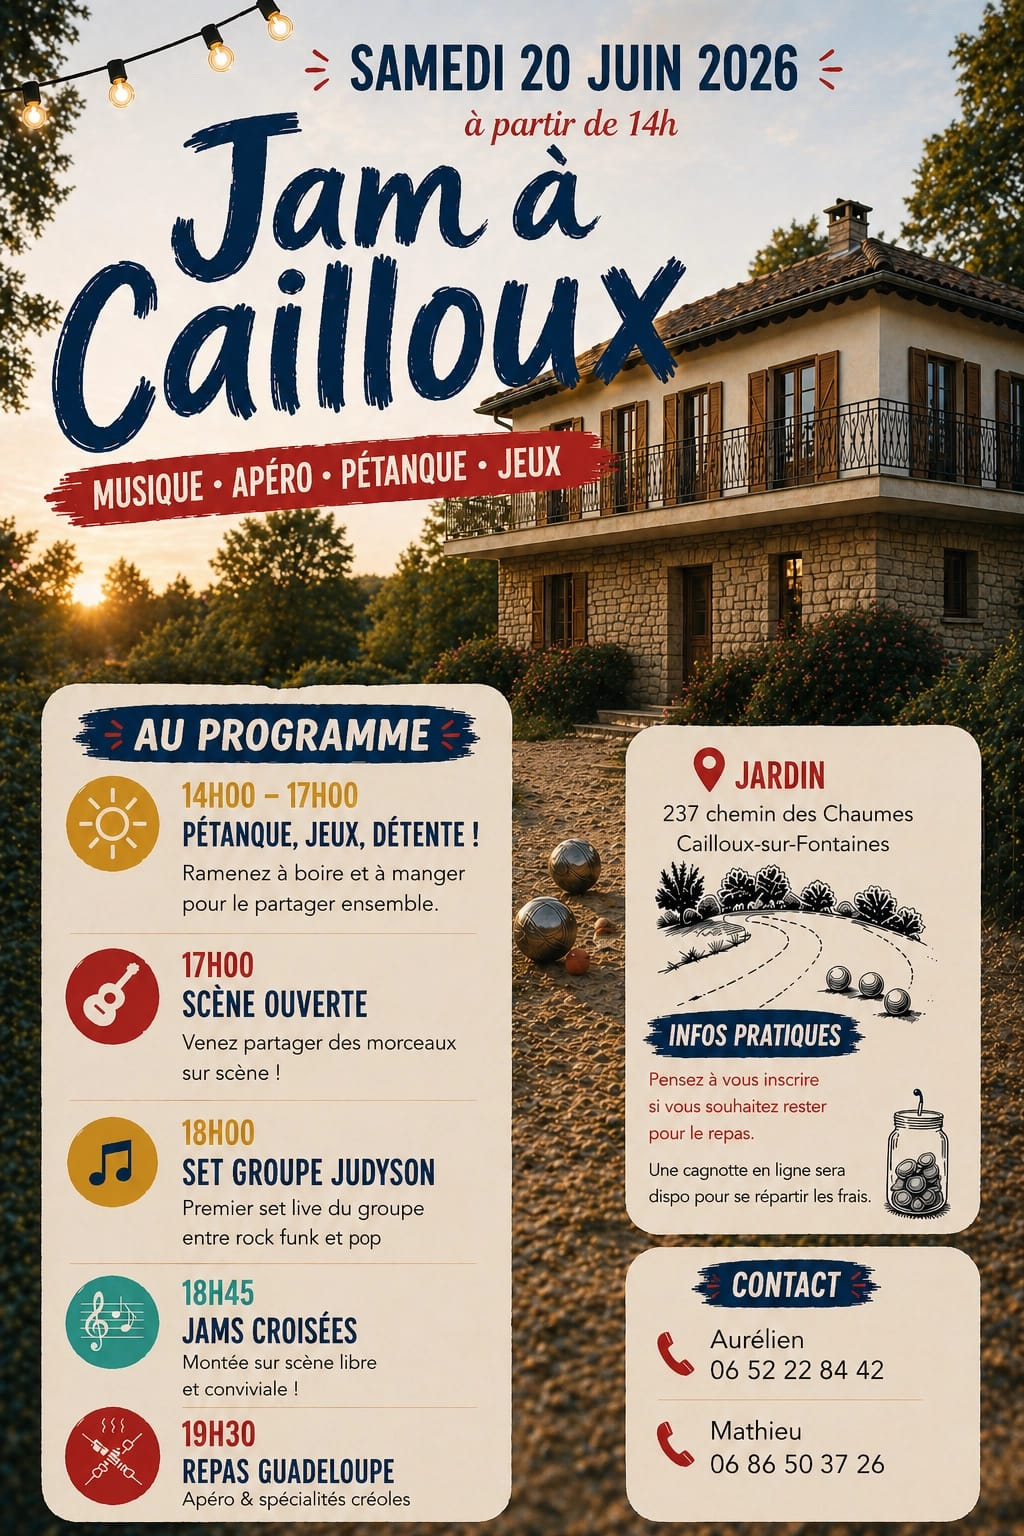
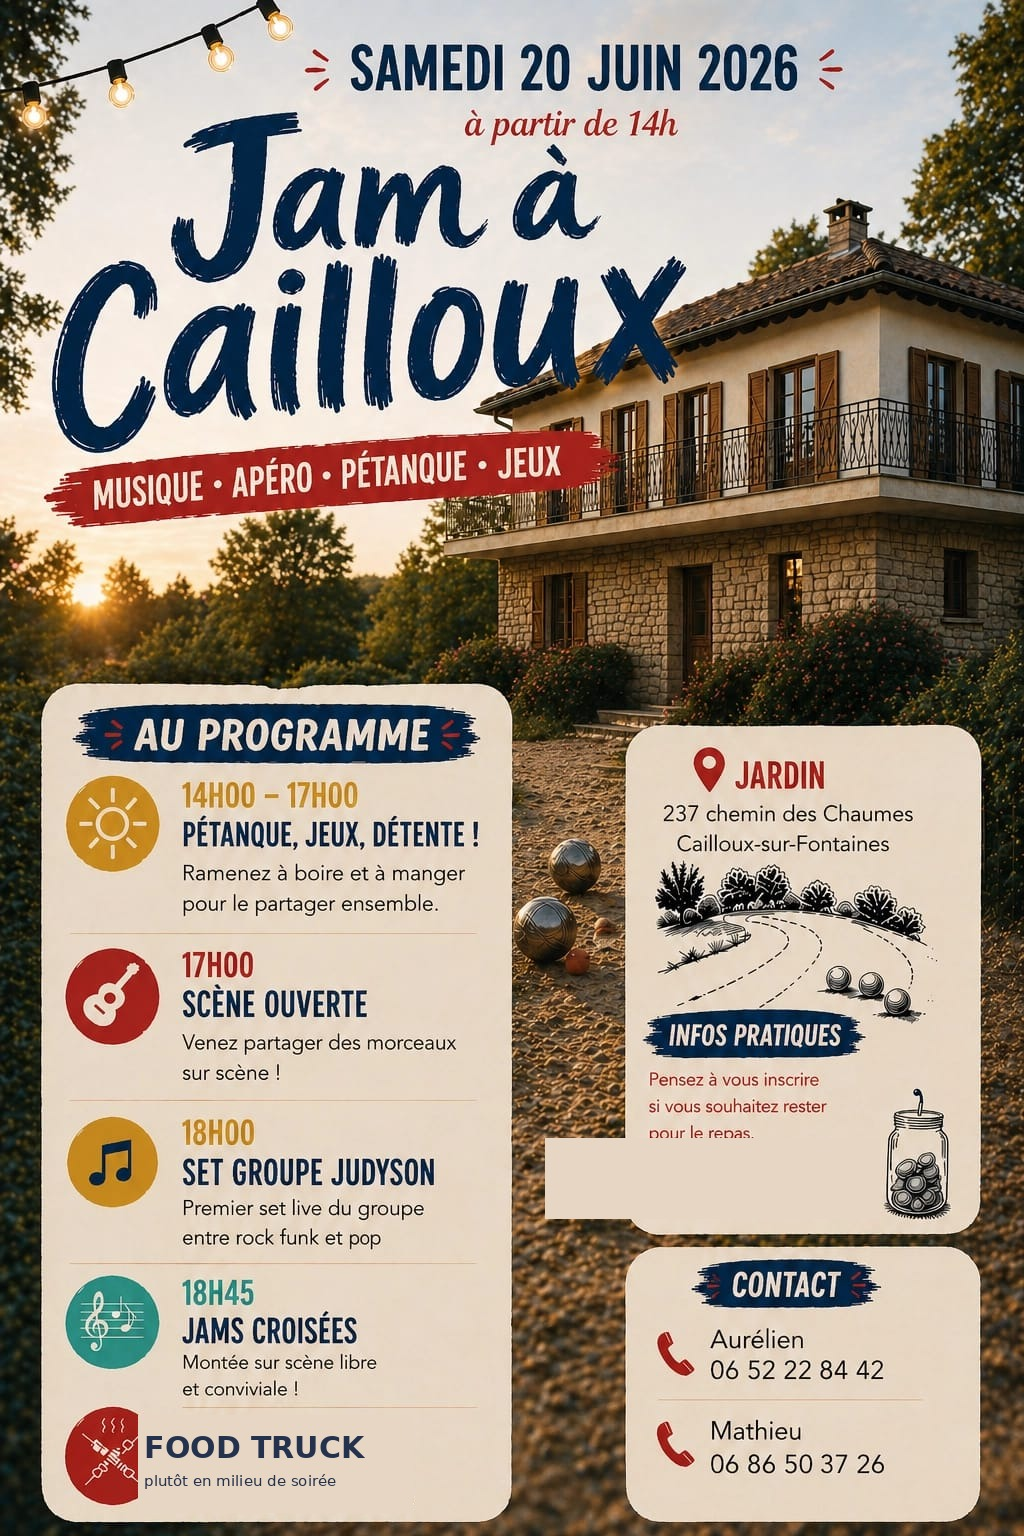
Affiche & landing : FOOD TRUCK (sans 'créole'), 'plutôt en milieu de soirée'
- Affiche : 'REPAS GUADELOUPE / spécialités créoles' → 'FOOD TRUCK / plutôt en milieu de soirée'
- Affiche : suppression de la mention 'cagnotte en ligne' (camion gère son paiement)
- Landing : timeline reframe avec 'milieu de soirée' au lieu de '19h30'
- Landing : 'Food truck créole' → 'Food truck' partout, drop 'spécialités créoles'
- Card infos : 'commande quand vous voulez'

Changed region(s): [[0.125, 0.9062, 0.4062, 1.0], [0.5312, 0.7188, 0.8438, 0.8125]]

diff --git a/index.html b/index.html
@@ -111,11 +111,11 @@
       </div>
     </li>
     <li class="timeline__item">
-      <span class="timeline__time">19h30</span>
+      <span class="timeline__time">milieu<small>de soirée</small></span>
       <div class="timeline__card timeline__card--terracotta">
         <span class="timeline__icon" aria-hidden="true">𓎩</span>
-        <h3>Food truck créole</h3>
-        <p>Un camion s'installe dans le jardin. <strong>Commande sur place</strong>, vous payez ce que vous prenez. On a juste besoin de savoir si vous venez.</p>
+        <h3>Food truck</h3>
+        <p>Un camion s'installe dans le jardin, plutôt en milieu de soirée. <strong>Commande directement au camion</strong>, quand vous voulez. On a juste besoin de savoir si vous venez pour qu'on le prévienne.</p>
       </div>
     </li>
     <li class="timeline__item timeline__item--locked" data-locked="true">
@@ -155,11 +155,11 @@
 
     <article class="card card--meal card--meal-photo">
       <figure class="card__photo">
-        <img src="assets/food-truck.jpg" alt="Le camion food truck créole qui sera sur place" loading="lazy" />
-        <figcaption>Le camion 🛻 sur place dès 19h30</figcaption>
+        <img src="assets/food-truck.jpg" alt="Le camion food truck qui sera sur place" loading="lazy" />
+        <figcaption>Le camion 🛻 sur place en milieu de soirée</figcaption>
       </figure>
       <h3>Food truck</h3>
-      <p>Un camion <strong>spécialités créoles</strong> sera sur place à partir de 19h30. <strong>Commande directement au camion</strong>, vous payez ce que vous prenez.</p>
+      <p>Un camion sera sur place, <strong>plutôt en milieu de soirée</strong>. <strong>Commande directement au camion</strong>, quand vous voulez, vous payez ce que vous prenez.</p>
       <p>Dites-nous juste dans le formulaire <strong>si vous prévoyez de venir</strong>, pour qu'on prévienne le camion des quantités estimées.</p>
     </article>
 
@@ -185,7 +185,7 @@
 
     <div class="rsvp__panel is-visible" data-panel="concert" role="tabpanel">
       <div class="rsvp__intro">
-        <p>Vous venez pour l'aprèm, le concert, le repas créole ? Remplissez ce formulaire.</p>
+        <p>Vous venez pour l'aprèm, le concert, le repas ? Remplissez ce formulaire.</p>
         <a class="btn btn--primary" target="_blank" rel="noopener" href="https://docs.google.com/forms/d/e/1FAIpQLSdOqh5eXl-ow2SegsYjygSUpzDZbPFfihfnnBCIeulAiGi61g/viewform">Ouvrir le formulaire ↗</a>
       </div>
       <div class="iframe-wrap">
